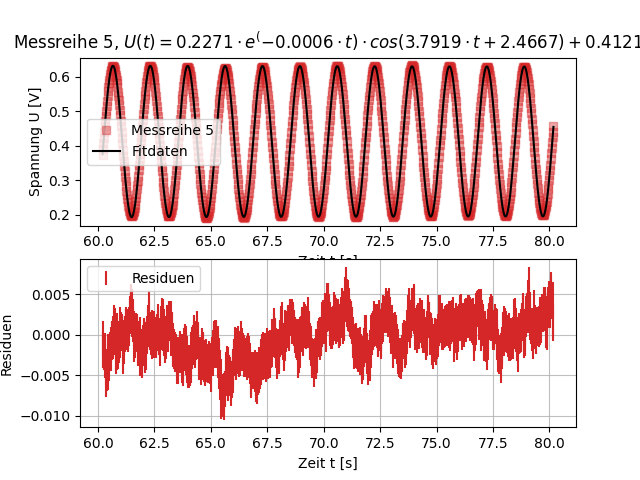
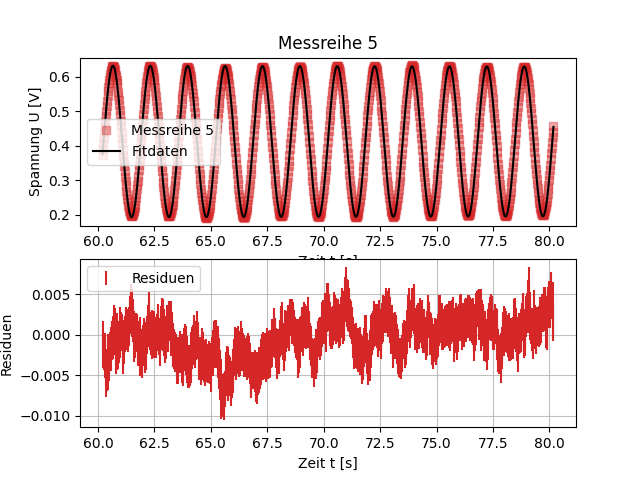
fehler fix 1

Changed region(s): [[0.0, 0.0625, 1.0, 0.125]]

diff --git a/V2_Mechanik/Valentin/auswertung_valentin.py b/V2_Mechanik/Valentin/auswertung_valentin.py
@@ -30,7 +30,7 @@ def auswertung_messreihe(DATEN, i, rausch_sigma=None, fit_trim=[0,-1], plot_inte
     def f(t, A, B, w, phi, y_0):
         return A * np.exp(-B * t) * np.cos(w * t + phi) + y_0
     
-    popt, pcov = curve_fit(f, t, U, p0=[U.max(), 0.1, 2 * np.pi, 0, np.mean(U)], sigma=rausch_sigma)
+    popt, pcov = curve_fit(f, t, U, p0=[U.max(), 0.1, 2 * np.pi, 0, np.mean(U)], sigma=rausch_sigma, absolute_sigma=True)
     werr = np.sqrt(pcov[2,2])
     
     A_fit, B_fit, w_fit, phi_fit, y_0_fit = popt
@@ -70,7 +70,7 @@ def auswertung_messreihe(DATEN, i, rausch_sigma=None, fit_trim=[0,-1], plot_inte
             label='Fitdaten')
     ax.set_xlabel('Zeit t [s]')
     ax.set_ylabel('Spannung U [V]')
-    ax.set_title(f'Messreihe {i}, $U(t)={A_fit:.4f}\cdot e^(-{B_fit:.4f}\cdot t)\cdot cos({2 * np.pi / T_fit:.4f}\cdot t + {phi_fit:.4f}) + {y_0_fit:.4f}$')
+    ax.set_title(f'Messreihe {i}')
     ax.legend()
     inter = 1
     rs.errorbar(t[plot_intervall[0]:plot_intervall[1]:inter],
@@ -101,7 +101,7 @@ def rauschmessung(DATEN, dateiname, trim_vorne, trim_hinten, bins=25):
     ax.axvline(mean-std, color="tab:gray",ls='--')
     ax.set_xlabel('Spannung U [V]')
     ax.set_ylabel("Häufigkeit")
-    ax.set_title(f'Rauschmessung Spannung U$\sigma$ = {std:.4f} V (n={len(U)})')
+    ax.set_title(f'Rauschmessung Spannung U  $\sigma$ = {std:.4f} V (n={len(U)})')
     ax.legend()
     fig.tight_layout()
     fig.savefig(OUTPUT / dateiname, dpi=150)
@@ -138,11 +138,34 @@ for i in range(1, 11):
 
 omega_mean = np.mean(omegas)
 omega_std  = np.std(omegas, ddof=1)
-g_mean     = np.mean(g_vals)
-g_std      = np.std(g_vals, ddof=1)
-g_ind      = np.sqrt(np.sum(np.array(g_errs)**2)) / len(g_errs)
-g_ges      = np.sqrt(g_std**2 + g_ind**2)
-print(f'\nomega = ({omega_mean:.4f}+-{omega_std:.4f}) 1/s')
-print(f'g = {g_mean:.4f}+/-{g_ges}')
+
+# g aus gemitteltem omega
+g_mean = (omega_mean**2 * (l_p.n / 1000) * (1 + (1/8) * ((d_p.n / 1000) / (l_p.n / 1000))**2))
+
+# Fehler aus Streuung der Messreihen
+g_std = np.std(g_vals, ddof=1)
+g_stat = g_std / np.sqrt(len(g_vals))
+
+# Fehler der einzelnen Fits
+g_fit = (np.sqrt(np.sum(np.array(g_errs)**2)) / len(g_errs))
+
+# Gemeinsamer Fehler von l_p und d_p
+g_l_d = (un.ufloat(omega_mean, 0)**2 * (l_p / 1000) * (1 + (1/8) * ((d_p/1000) / (l_p/1000))**2))
+
+g_l_d_err = g_l_d.s
+
+# Gesamtfehler
+g_ges = np.sqrt(g_stat**2 + g_fit**2 + g_l_d_err**2)
+
+# Ausgabe
+print(f'\nomega = ({omega_mean:.4f} +/- {omega_std:.4f}) 1/s')
+
+print(f'g_mean = {g_mean:.6f} m/s²')
+print(f'g_stat = {g_stat:.6f} m/s²')
+print(f'g_fit  = {g_fit:.6f} m/s²')
+print(f'g_l,d  = {g_l_d_err:.6f} m/s²')
+
+print(f'g = {g_mean:.4f} +/- {g_ges:.4f} m/s²')
+
 print(f'chiq/dof mittel = {np.mean(chiqs):.5f}')
 print('l_p = ', l_p)
